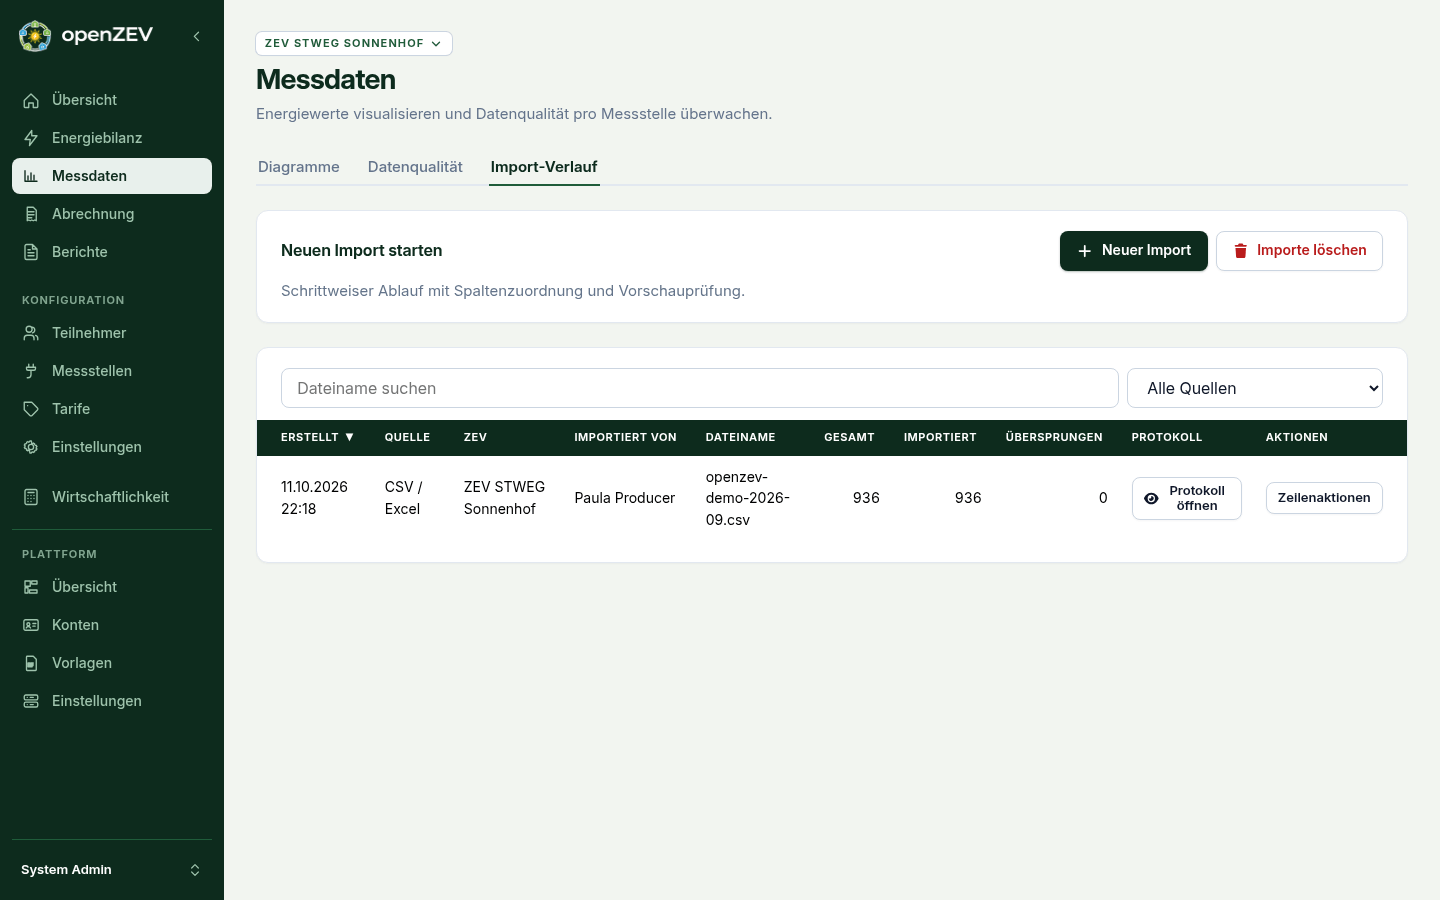
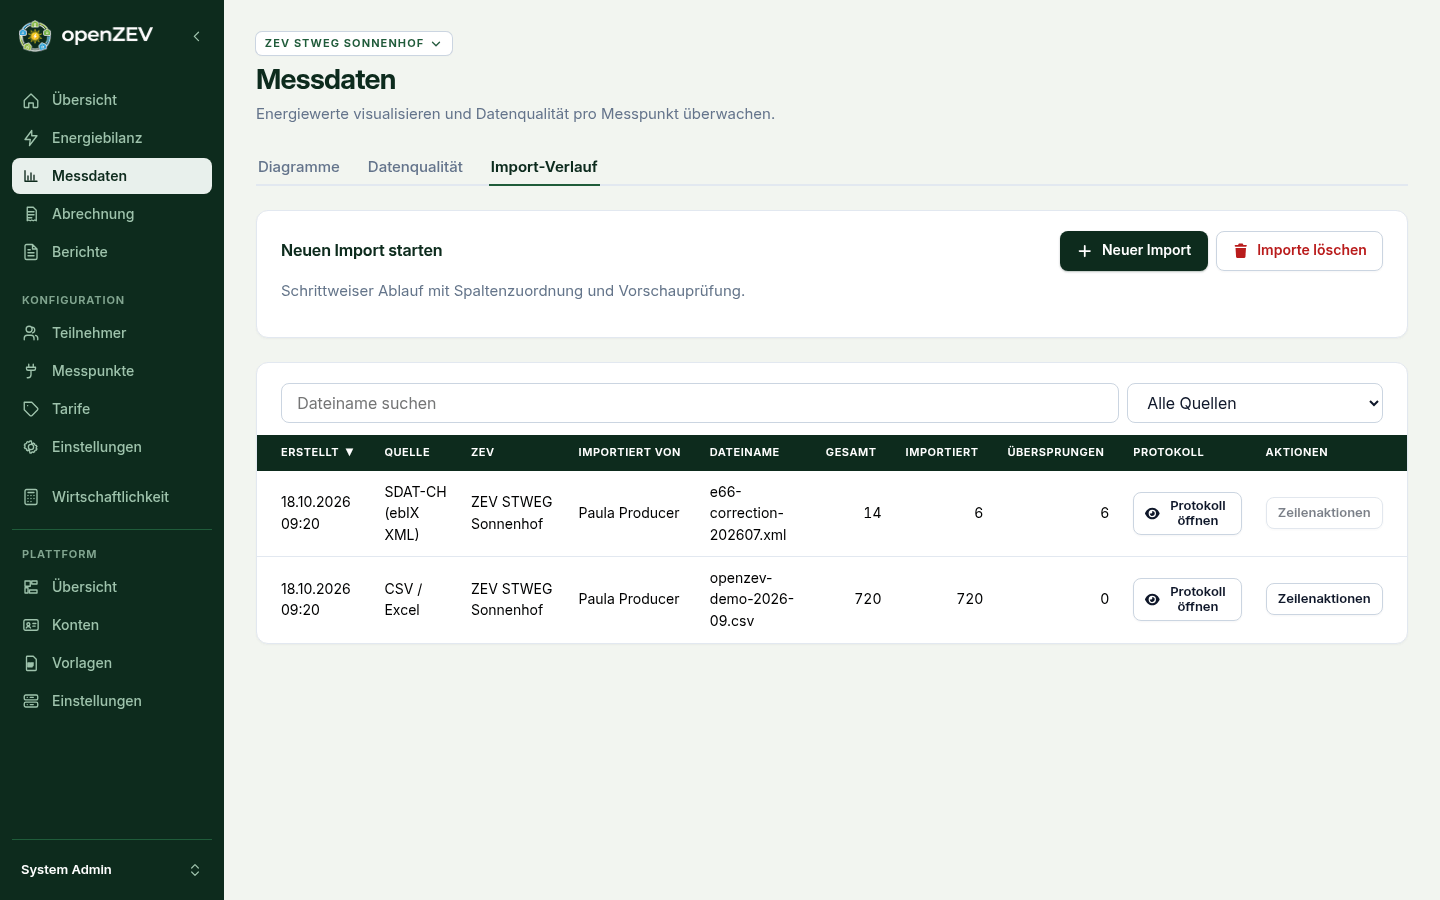
chore(demo): seed correction-review data and capture the SDAT protocol

diff --git a/frontend/screenshots/capture.spec.ts b/frontend/screenshots/capture.spec.ts
@@ -499,6 +499,26 @@ test.describe('User Guide Screenshots', () => {
     await screenshotFull(page, '09-imports')
   })
 
+  // 09b — SDAT-CH import protocol: the seeded correction import shows the
+  // guide's structured outcome ("Corrections applied"), observation
+  // accounting, stable findings and the delivery identity.
+  test('09b-import-protocol', async ({ page }) => {
+    await navigateTo(page, '/metering/imports')
+    await page.waitForSelector('tbody tr', { timeout: 10_000 })
+    const row = page.locator('tbody tr', { hasText: 'e66-correction' })
+    await expect(row).toHaveCount(1)
+    await row.getByRole('button', {
+      name: /open protocol|protokoll/i,
+    }).click()
+    await page.waitForSelector('div[role="dialog"]', { timeout: 10_000 })
+    await page.waitForSelector('div[role="dialog"] .badge', { timeout: 10_000 })
+    // A taller viewport shows outcome badge, accounting and findings together;
+    // at 900px the findings sit below the fold of the scrolling dialog.
+    await page.setViewportSize({ width: 1440, height: 1400 })
+    await page.waitForTimeout(400)
+    await screenshotViewport(page, '09b-import-protocol')
+  })
+
   // 10 — Admin Dashboard
   test('10-admin-dashboard', async ({ page }) => {
     await navigateTo(page, '/admin')

diff --git a/backend/zev/management/commands/seed_demo.py b/backend/zev/management/commands/seed_demo.py
@@ -36,12 +36,21 @@ from invoices.models import (
     CreditApplication,
     EmailLog,
     Invoice,
+    InvoiceReadingImpact,
     InvoiceStatus,
     Payment,
 )
 from invoices.pdf import save_invoice_pdf
 from invoices.workflow import correct_invoice
-from metering.models import ImportLog, ImportSource, MeterReading, ReadingDirection, ReadingResolution
+from metering.models import (
+    ImportLog,
+    ImportSource,
+    MeterReading,
+    ReadingChangeKind,
+    ReadingDirection,
+    ReadingResolution,
+    SdatResultStatus,
+)
 from tariffs.dynamic.models import DynamicApiVersion, DynamicTariffSource, DynamicTariffType, FetchStatus
 from tariffs.dynamic.storage import store_points
 from tariffs.dynamic.vse_v1 import PricePoint
@@ -305,6 +314,10 @@ class Command(BaseCommand):
     def handle(self, *args, **options):
         if not settings.DEBUG:
             raise CommandError("seed_demo creates demo users with known passwords and is only available when DEBUG=True.")
+        from zev.locks import lock_meter_identities
+
+        # update_or_create locks a point before save; take the identity lock first.
+        lock_meter_identities()
         # Seed relative to today so the period the UI opens on always has data.
         # A fixed window silently goes stale: once today moves past it, the
         # dashboard, charts and invoice pages all render empty.
@@ -717,6 +730,7 @@ class Command(BaseCommand):
             meter_type=MeteringPointType.CONSUMPTION,
             location_description="Apartment 1 consumption meter",
             building=main_building,
+            secondary_meter_id="ZANR-1001",
         )
         participant_two_cons = self._upsert_metering_point(
             zev=zev,
@@ -769,6 +783,7 @@ class Command(BaseCommand):
             meter_type=MeteringPointType.CONSUMPTION,
             location_description="Garage space 4: EV charger",
             building=main_building,
+            secondary_meter_id="ZANR-1002",
         )
 
         self._ensure_assignment(owner_prod, owner_participant, main_valid_from)
@@ -1487,6 +1502,110 @@ class Command(BaseCommand):
         import_log.rows_imported = imported_rows
         import_log.save(update_fields=["rows_total", "rows_imported"])
 
+        # A structured SDAT-CH correction import on the flagship ZEV: the
+        # import protocol shows the "Corrections applied" outcome with the
+        # typed observation accounting, stable findings and the delivery
+        # identity, and its committed overwrites are the correction evidence
+        # behind the data-review badge on Anna's open-quarter invoice.
+        day_a = invoice_period_start + timedelta(days=12)
+        day_b = invoice_period_start + timedelta(days=40)
+        anna_meter = MeteringPoint.objects.get(zev=zev, meter_id="CH-DEMO-CONS-0001")
+        delivery = {
+            "delivery_id": "DEMO-E66-CORR-1001",
+            "creation": f"{invoice_period_end}T23:59:59+00:00",
+            "status": "5",
+            "reason": "E88",
+            "sender_id": "DEMO-VNB-DEMO",
+            "sender_role": "7",
+            "receiver_id": "DEMO-ZEV-DEMO",
+            "receiver_role": "4",
+        }
+        sdat_changes = [
+            {
+                "metering_point": str(anna_meter.pk),
+                "meter_id": anna_meter.meter_id,
+                "timestamp": f"{day_a}T12:15:00+00:00",
+                "direction": "in",
+                "kind": ReadingChangeKind.VALUE,
+                "old_energy": "0.3125",
+                "new_energy": "0.4375",
+                "promoted": False,
+                "source_document_id": "OBS-88",
+            },
+            {
+                "metering_point": str(anna_meter.pk),
+                "meter_id": anna_meter.meter_id,
+                "timestamp": f"{day_b}T18:30:00+00:00",
+                "direction": "in",
+                "kind": ReadingChangeKind.VALUE,
+                "old_energy": None,
+                "new_energy": "0.2500",
+                "promoted": False,
+                "source_document_id": "OBS-113",
+            },
+        ]
+        sdat_log = ImportLog.objects.create(
+            zev=zev,
+            imported_by=owner,
+            source=ImportSource.SDATCH,
+            result_status=SdatResultStatus.ACCEPTED,
+            filename=f"e66-correction-{invoice_period_start:%Y%m}.xml",
+            timestamp_timezone=str(business_tz()),
+            rows_total=14,
+            rows_imported=6,
+            rows_overwritten=6,
+            rows_skipped=6,
+            result_counts={
+                "created": 0,
+                "overwritten": 6,
+                "held": 2,
+                "promoted": 2,
+                "duplicate": 3,
+                "stale": 2,
+                "excluded": 1,
+                "rejected": 0,
+                "quarantine_overwritten": 1,
+            },
+            issues=[
+                {
+                    "code": "stale_superseded",
+                    "severity": "info",
+                    "message": "Skipped 2 observations superseded by newer deliveries; nothing changed.",
+                    "meter_id": "CH-DEMO-CONS-0002",
+                    "position": [19],
+                },
+                {
+                    "code": "duplicate_delivery",
+                    "severity": "info",
+                    "message": "Skipped 3 observations already imported; nothing changed.",
+                    "meter_id": "CH-DEMO-CONS-0004",
+                },
+            ],
+            source_delivery=delivery,
+            reading_changes=sdat_changes,
+            errors=[],
+        )
+        anna_participant = Participant.objects.get(zev=zev, user=anna_user)
+        anna_invoice = Invoice.objects.get(
+            zev=zev, participant=anna_participant, period_end=invoice_period_end
+        )
+        InvoiceReadingImpact.objects.create(
+            invoice=anna_invoice,
+            import_log=sdat_log,
+            evidence={
+                "source": "sdat-import",
+                "delivery_id": delivery["delivery_id"],
+                "creation": delivery["creation"],
+                "status": delivery["status"],
+                "reason": delivery["reason"],
+                "change_count": 2,
+                "kinds": ["value"],
+                "day_from": day_a.isoformat(),
+                "day_to": day_b.isoformat(),
+                "changes_truncated": False,
+            },
+        )
+
         # A second log on the second community with skipped rows + errors, so
         # the import list shows those badges without needing a real bad import.
         ImportLog.objects.create(
@@ -1882,6 +2001,7 @@ class Command(BaseCommand):
         meter_type: str,
         location_description: str,
         building: Building | None = None,
+        secondary_meter_id: str | None = None,
     ) -> MeteringPoint:
         defaults = {
             "zev": zev,
@@ -1889,6 +2009,8 @@ class Command(BaseCommand):
             "is_active": True,
             "location_description": location_description,
         }
+        if secondary_meter_id is not None:
+            defaults["secondary_meter_id"] = secondary_meter_id
         if building is not None:
             defaults["building"] = building
         meter, _ = MeteringPoint.objects.update_or_create(meter_id=meter_id, defaults=defaults)

diff --git a/backend/zev/tests.py b/backend/zev/tests.py
@@ -2769,6 +2769,7 @@ class SeedDemoReseedTests(SeedDemoWindow, TestCase):
 			"dynamic_points": DynamicPricePoint.objects.count(),
 			"email_logs": EmailLog.objects.count(),
 			"import_logs": ImportLog.objects.count(),
+			"reading_impacts": InvoiceReadingImpact.objects.count(),
 			"audit_events": AuditEvent.objects.count(),
 			"contracts": ContractIssue.objects.count(),
 			"zevs": Zev.objects.count(),
@@ -2819,7 +2820,13 @@ class SeedDemoReseedTests(SeedDemoWindow, TestCase):
 		self.assertGreater(first["readings"], 0)
 		self.assertGreater(first["invoices"], 0)
 		self.assertGreater(first["email_logs"], 0)
-		self.assertEqual(first["import_logs"], 2)
+		self.assertEqual(first["import_logs"], 3)
+		self.assertEqual(first["reading_impacts"], 1)
+		impact = InvoiceReadingImpact.objects.get()
+		self.assertIsNone(impact.resolved_at)
+		self.assertEqual(impact.invoice.participant.user.email, "anna@openzev.local")
+		self.assertEqual(impact.import_log.result_status, "accepted")
+		self.assertEqual(impact.evidence["delivery_id"], impact.import_log.source_delivery["delivery_id"])
 		self.assertGreater(first["audit_events"], 0)
 		self.assertEqual(first["contracts"], 0)  # PDF issuance is mocked
 
@@ -2835,6 +2842,7 @@ class SeedDemoReseedTests(SeedDemoWindow, TestCase):
 		self.assertEqual(second["dynamic_points"], first["dynamic_points"])
 		self.assertEqual(second["email_logs"], first["email_logs"])
 		self.assertEqual(second["import_logs"], first["import_logs"])
+		self.assertEqual(second["reading_impacts"], first["reading_impacts"])
 		self.assertEqual(second["audit_events"], first["audit_events"])
 		self.assertEqual(second["contracts"], first["contracts"])
 		self.assertEqual(second["zevs"], 2)

diff --git a/docs/specs/2026-03-community-and-access.md b/docs/specs/2026-03-community-and-access.md
@@ -2320,7 +2320,7 @@ proxy trust and conflicting legacy scheme headers.
 | `SeedDemoLegacyNameCollisionTests` | 5 | Legacy row next to an already-migrated row dropped; duplicate legacy rows keep the newest; a duplicate legacy row with invoices is cleared; current-name upsert does not take over another owner's community; only the demo owner is affected |
 | `SeedDemoWindowShiftTests` | 1 | Shifted seed window leaves no readings outside it |
 | `SeedDemoAuditResetTests` | 1 | Audit reset clears demo trails but keeps events on other communities |
-| `SeedDemoReseedTests` | 1 | One seeded-then-re-seeded database (seeded once in `setUpTestData`), checked as four sub-tests of a single test so `--dist=worksteal` cannot split the class and repeat the seed per worker: Anna's invoice PDFs generated after commit, deterministic reseeding, the flagship's representative and contact, access personas |
+| `SeedDemoReseedTests` | 1 | One seeded-then-re-seeded database (seeded once in `setUpTestData`), checked as four sub-tests of a single test so `--dist=worksteal` cannot split the class and repeat the seed per worker: Anna's invoice PDFs generated after commit, deterministic reseeding including three import logs and Anna's open correction-review impact linked to the accepted SDAT delivery, the flagship's representative and contact, access personas |
 | `SeedDemoEndToEndTests` | 7 | Seed runs that need their own database: dynamic tariff rollover on a next-quarter reseed; real-storage PDF lifecycle across a reseed; rollback preserves invoice rows/files; cleanup preserves referenced PDFs; rendering/database and deletion failures are isolated within and between commit callbacks |
 | `ZevVatModeTests` | 5 | ZEV VAT mode: default `not_registered`; `clean()` requires a number for `registered` and forbids one otherwise; a PATCH to `inclusive` is accepted and to `registered` without a number rejected |
 | `SeedDemoFeatureFlagTests` | 3 | Demo seed enables the features that ship off by default (#691): enables the feasibility-calculator flag, re-enables a flag an admin turned off, and is idempotent |
